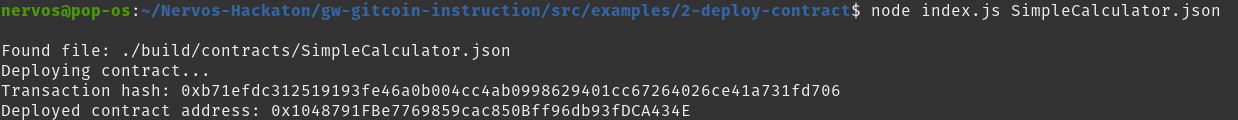
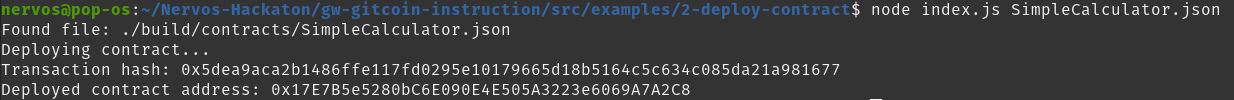
Updates

diff --git a/3-Smart-contract-call/index.js b/3-Smart-contract-call/index.js
@@ -1,0 +1,106 @@
+const Web3 = require('web3');
+const { PolyjuiceHttpProvider, PolyjuiceAccounts } = require("@polyjuice-provider/web3");
+
+/**
+ * BEFORE USING THIS SCRIPT MAKE SURE TO REPLACE:
+ * - <YOUR_CONTRACT_ABI>
+ * - <YOUR_CONTRACT_ADDRESS>
+ * - CONTRACT_ADDRESS variable value
+ * - YOUR_READ_FUNCTION_NAME method name
+ * - YOUR_WRITE_FUNCTION_NAME method name
+ */
+
[1 lines of base64/hex data omitted]
+const CONTRACT_ABI = [
+  {
+    "inputs": [
+      {
+        "internalType": "uint256",
+        "name": "n",
+        "type": "uint256"
+      }
+    ],
+    "name": "setX",
+    "outputs": [],
+    "stateMutability": "payable",
+    "type": "function"
+  },
+  {
+    "inputs": [],
+    "name": "pow",
+    "outputs": [
+      {
+        "internalType": "uint256",
+        "name": "",
+        "type": "uint256"
+      }
+    ],
+    "stateMutability": "view",
+    "type": "function"
+  }
+]; // this should be an Array []
+const CONTRACT_ADDRESS = '0x17E7B5e5280bC6E090E4E505A3223e6069A7A2C8';
+
+const GODWOKEN_RPC_URL = 'https://godwoken-testnet-web3-rpc.ckbapp.dev';
+const polyjuiceConfig = {
[2 lines of base64/hex data omitted]
+    web3Url: GODWOKEN_RPC_URL
+};
+  
+const provider = new PolyjuiceHttpProvider(
+    GODWOKEN_RPC_URL,
+    polyjuiceConfig,
+);
+
+const web3 = new Web3(provider);
+
+web3.eth.accounts = new PolyjuiceAccounts(polyjuiceConfig);
+const account = web3.eth.accounts.wallet.add(ACCOUNT_PRIVATE_KEY);
+web3.eth.Contract.setProvider(provider, web3.eth.accounts);
+
+async function readCall() {
+    const contract = new web3.eth.Contract(CONTRACT_ABI, CONTRACT_ADDRESS);
+
+    const callResult = await contract.methods.pow().call({
+        from: account.address
+    });
+
+    console.log(`pow() Read call result: ${callResult}`);
+}
+
+async function writeCall() {
+    const contract = new web3.eth.Contract(CONTRACT_ABI, CONTRACT_ADDRESS);
+
+    const tx = contract.methods.setX(4).send(
+        {
+            from: account.address,
+            to: '0x' + new Array(40).fill(0).join(''),
+            gas: 6000000,
+            gasPrice: '0',
+        }
+    );
+    tx.on('transactionHash', hash => console.log(`setX(4) Write call transaction hash: ${hash}`));
+    const receipt = await tx;
+    console.log('Write call transaction receipt: ', receipt);
+}
+
+(async () => {
+    const balance = BigInt(await web3.eth.getBalance(account.address));
+
+    if (balance === 0n) {
+        console.log(`Insufficient balance. Can't issue a smart contract call. Please deposit funds to your Ethereum address: ${account.address}`);
+        return;
+    }
+
+    console.log('Calling contract...');
+
+    // Check smart contract state before state change.
+    await readCall();
+
+    // Change smart contract state.
+    await writeCall();
+
+    // Check smart contract state after state change.
+    await readCall();
+})();

diff --git a/3-Smart-contract-call/3-Smart-contract-call.md b/3-Smart-contract-call/3-Smart-contract-call.md
@@ -1,0 +1,109 @@
+# Gitcoin: 3 - Issue a Smart Contract Call to the Deployed Smart Contract
+
+https://gitcoin.co/issue/nervosnetwork/grants/4/100026210
+
+## 1. Prepare the Smart Contract Address and ABI
+
+ABI of `SimpleCalculator` contract (in `gw-gitcoin-instruction/src/examples/2-deploy-contract/build/contracts/SimpleCalculator.json`) :
+```json
+[
+  {
+    "inputs": [
+      {
+        "internalType": "uint256",
+        "name": "n",
+        "type": "uint256"
+      }
+    ],
+    "name": "setX",
+    "outputs": [],
+    "stateMutability": "payable",
+    "type": "function"
+  },
+  {
+    "inputs": [],
+    "name": "pow",
+    "outputs": [
+      {
+        "internalType": "uint256",
+        "name": "",
+        "type": "uint256"
+      }
+    ],
+    "stateMutability": "view",
+    "type": "function"
+  }
+]
+```
+
+`SimpleCalculator` previously deployed contract address : `0x17E7B5e5280bC6E090E4E505A3223e6069A7A2C8`
+
+## 2. Prepare and Run the Example Code to Call the Smart Contract
+
+In `gw-gitcoin-instruction/src/examples/3-call-contract/index.js`, replace the values :
+```
+<YOUR_ETHEREUM_PRIVATE_KEY> # Ethereum private key for layer 2
+<YOUR_CONTRACT_ABI>
+<YOUR_CONTRACT_ADDRESS>
+CONTRACT_ADDRESS variable value
+YOUR_READ_FUNCTION_NAME method name
+YOUR_WRITE_FUNCTION_NAME method name
+```
+
+Calls :
+```js
+async function readCall() {
+    const contract = new web3.eth.Contract(CONTRACT_ABI, CONTRACT_ADDRESS);
+
+    const callResult = await contract.methods.pow().call({
+        from: account.address
+    });
+
+    console.log(`pow() Read call result: ${callResult}`);
+}
+
+async function writeCall() {
+    const contract = new web3.eth.Contract(CONTRACT_ABI, CONTRACT_ADDRESS);
+
+    const tx = contract.methods.setX(4).send(
+        {
+            from: account.address,
+            to: '0x' + new Array(40).fill(0).join(''),
+            gas: 6000000,
+            gasPrice: '0',
+        }
+    );
+    tx.on('transactionHash', hash => console.log(`setX(4) Write call transaction hash: ${hash}`));
+    const receipt = await tx;
+    console.log('Write call transaction receipt: ', receipt);
+}
+```
+
+Run the script :
+```bash
+cd ~/Nervos-Hackaton/gw-gitcoin-instruction/src/examples/3-call-contract
+node index.js
+```
+
+Result of smart contract call :
+![Smart contract call](images/contract_call.png)
+
+Output :
+```
+Calling contract...
+pow() Read call result: 0
+setX(4) Write call transaction hash: 0xc6fcd31087743c0b6760c48735a5b865c1cb6c48db634932fc2d270459c1c5e5
+Write call transaction receipt:  {
[2 lines of base64/hex data omitted]
+  blockNumber: 20578,
+  transactionIndex: 0,
+  gasUsed: 20374,
+  cumulativeGasUsed: 20374,
[1 lines of base64/hex data omitted]
+  contractAddress: null,
+  status: true,
+  events: {}
+}
+pow() Read call result: 16
+```

diff --git a/2-Smart-Contract/2-Smart-Contract.md b/2-Smart-Contract/2-Smart-Contract.md
@@ -6,7 +6,7 @@ https://gitcoin.co/issue/nervosnetwork/grants/3/100026209
 
 ### 1. Prepare Your Ethereum Private Key
 
[2 lines of base64/hex data omitted]
 
 ### 2. Clone and Setup the Gitcoin Task Instruction Examples
 
@@ -22,19 +22,14 @@ Smart contract used :
 pragma solidity >=0.8.0;
 
 contract SimpleCalculator {
-  uint a;
-  uint b;
+  uint x;
 
-  function setA(uint x) public payable {
-    a = x;
+  function setX(uint n) public payable {
+    x = n;
   }
   
-  function setB(uint x) public payable {
-    b = x;
-  }
-  
-  function mul() public view returns (uint) {
-      return a * b;
+  function pow() public view returns (uint) {
+      return x * x;
   }
 }
 ```
@@ -60,8 +55,8 @@ Deployment successfull :
 ```
 Found file: ./build/contracts/SimpleCalculator.json
 Deploying contract...
-Transaction hash: 0xb71efdc312519193fe46a0b004cc4ab0998629401cc67264026ce41a731fd706
-Deployed contract address: 0x1048791FBe7769859cac850Bff96db93fDCA434E
+Transaction hash: 0x5dea9aca2b1486ffe117fd0295e10179665d18b5164c5c634c085da21a981677
+Deployed contract address: 0x17E7B5e5280bC6E090E4E505A3223e6069A7A2C8
 ```
 
 ![Contract Deployment](images/contract_deployment.png)

diff --git a/3-Smart-contract-call/README.md b/3-Smart-contract-call/README.md
@@ -1,0 +1,44 @@
+# 1. Screenshot of the console output immediately after you have successfully issued a smart contract call
+
+![Smart contract call](images/contract_call.png)
+
+# 2. Transaction hash from the console output (in text format)
+
[1 lines of base64/hex data omitted]
+
+# 3. Contract address that you called (in text format)
+
+0x17E7B5e5280bC6E090E4E505A3223e6069A7A2C8
+
+# 4. ABI for contract you made a call on (in text format)
+
+```json
+[
+  {
+    "inputs": [
+      {
+        "internalType": "uint256",
+        "name": "n",
+        "type": "uint256"
+      }
+    ],
+    "name": "setX",
+    "outputs": [],
+    "stateMutability": "payable",
+    "type": "function"
+  },
+  {
+    "inputs": [],
+    "name": "pow",
+    "outputs": [
+      {
+        "internalType": "uint256",
+        "name": "",
+        "type": "uint256"
+      }
+    ],
+    "stateMutability": "view",
+    "type": "function"
+  }
+]
+```

diff --git a/2-Smart-Contract/README.md b/2-Smart-Contract/README.md
@@ -4,8 +4,8 @@
 
 # 2. Transaction hash from the contract deployment (in text format)
 
[2 lines of base64/hex data omitted]
 
 # 3. Deployed contract address from the contract deployment (in text format)
 
-0x1048791FBe7769859cac850Bff96db93fDCA434E
+0x17E7B5e5280bC6E090E4E505A3223e6069A7A2C8
